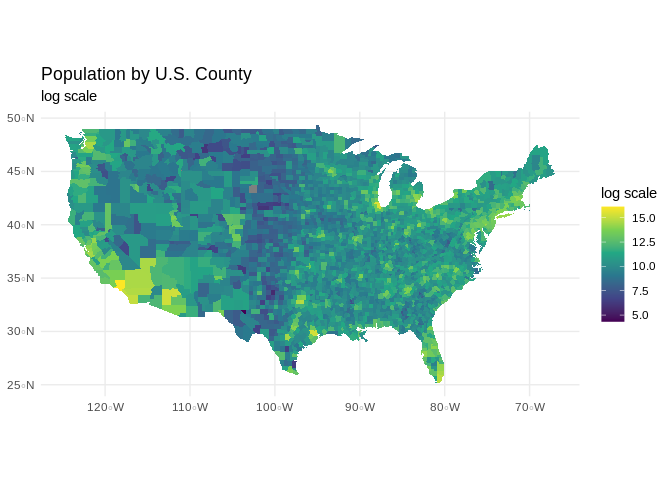
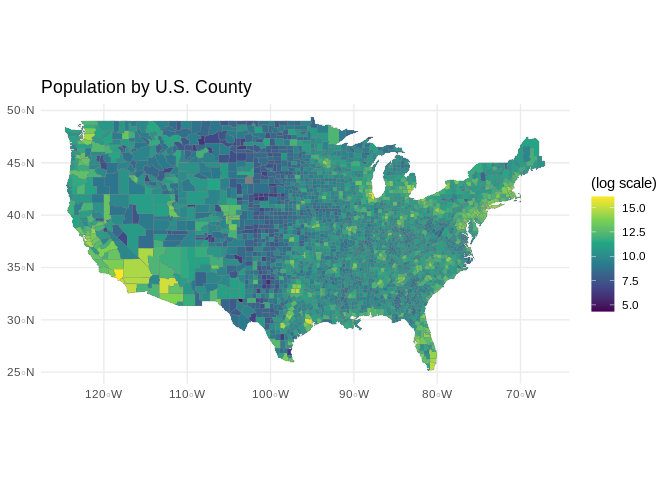
updated README

diff --git a/README.md b/README.md
@@ -1,48 +1,53 @@
 Niche: An Interface for Exploring Relocation Options
 ================
 
-My parents often bring up in conversation their desire to move away from
-their California home and find a new place to settle down for
-retirement. Typically they will cite factors that they perceive as
-having altered the essence of this suburban and rural county such as
+Lately, my parents will often bring up in conversation their desire to
+move away from their California home and find a new place to settle down
+for retirement. Typically they will cite factors that they perceive as
+having altered the essence of their suburban and rural county such as
 higher costs of living, population growth, worsening traffic, and
 growing rates of violent crime that they say have made them feel
-increasing estranged from their community in recent years. Despite these
-concerns, both admit that there is much they would miss about their home
+estranged from their community in recent years. Despite these concerns,
+both admit that there is much they would miss about their current home
 such as the mild climate of the California coast, the abundant natural
-beauty of the region, and an impressive matrix of open space and public
-lands, all of which allow them to enjoy outdoor hobbies throughout the
-year.
+beauty of the region, and an vast matrix of open space and public lands
+that allow them to enjoy outdoor hobbies throughout the year.
 
 The idea for Niche came from wanting to help my parents explore their
-relocation options. The name is taken from a foundational concept in
-biology. While many definitions of a niche exist, from conceptural
-models to mathematical frameworks, virtually all definitions agree that
-one’s niche can be thought of as the set of environmental conditions
-necessary for an organism to thrive. While some organisms can only
-tolerate a narrow range of conditions (think temperature, light,
-salinity, etc.) others will do just fine when exposed to large changes
-in these same variables. Members of the same species will also occupy
-different niches due to the individual variation that exists in their
-anatomy, physiology, and behavior. As a result, no two individuals
-experience a shared environment in exactly the same way.
+relocation options by taking into considertation what matters most to
+them about the place they live now. The name of this app is taken from a
+foundational concept in biology. While many definitions of a niche
+exist, from conceptural models to mathematical frameworks, virtually all
+definitions agree that one’s niche can be thought of as the set of
+environmental conditions necessary for an organism to thrive. While some
+species can only tolerate a narrow range of conditions (think
+temperature, light, salinity, etc.) others will do just fine when
+exposed to large changes in these same variables. But even members of
+the same species will occupy a different niche due to the individual
+variation that exists in their anatomy, physiology, and behavior. The
+point is that no two individuals experience a shared environment in
+exactly the same way. We all have different tolerances.
 
 Borrowing from this concept, it is easy to imagine how our own ability
-to thrive will be influenced by our surroundings, and that the best
-tools to guide our understanding of the conditions best suit us as
-individuals come from reflecting on our own experiences. However it is
-also possible that we can not put a finger on what exactly makes a place
-feel like home. That is where Niche comes in, using a data-driven
-approach to capture the gestalt properties of a location, and to then
-search them out elsewhere. You know what you want to find in the places
-you will live, let Niche help you explore those locations.
+to thrive will be influenced by our surroundings. Niche works by asking
+users to identify a location where they would like to live and answer a
+few questions about what is important to them about that place. The
+program then identifies other areas in the country with similar features
+before making recommendations on relocation options. Niche considers
+both the more salient characteristics of a location such as the climate
+and land uses as well as factors that may be less conspicuous such as
+economic, demographic, and political indicators. Niche relies on the
+belief that the best tools to guide our understanding of the conditions
+best suit us as individuals will come from reflecting on our
+experiences. You know what you want to find in the places you want to
+live and Niche can help you find them.
 
 ![](niche.png) [**Try the Niche app right now. Click
 here\!**](https://ericvc.shinyapps.io/Niche)
 
 Below, I detail the data and methods that went into creating Niche.
 Thank you for reading. If you have any feedback, questions, or
-suggestion, get in touch with me at ericvc2`at`gmail.com.
+suggestions get in touch with me at ericvc2\[at\]gmail.
 
 ## 0\. Get County-level Boundary Data, the unit of this analysis
 
@@ -54,9 +59,9 @@ type object used by the `sf` (“simple features”) geospatial package.
 Therefore, I had to first download the county level data using
 `ggplot2`, convert the coordinate data into a ’Spatial\*’ object (used
 by the `sp` package), save this data to local storage as a shapefile,
-and subsequerntly read-in the file back into R using `sf::st_read()`. I
-decided to save the data as a shapefile because the conversion to
-‘SpatialPolygonsDataFrame’ was non-trivial ([this code
+and finally read the file back into R using `sf::st_read()`. I decided
+to save the data as a shapefile as an intermediate data prodcut because
+the conversion to ‘SpatialPolygonsDataFrame’ was non-trivial ([this code
 helped](https://stackoverflow.com/questions/21759134/convert-spatialpointsdataframe-to-spatialpolygons-in-r%3E))
 and took a bit of time to finish.
 
@@ -102,8 +107,8 @@ counties$state = locs[,2]
 ```
 
 Once completed, I had a map of the United States composed of polygons
-for each county. Now, any new columns added to `d` will be automatically
-georeferenced.
+for each county. Now, any new columns added to `d` (an ‘sf’ object) will
+be automatically georeferenced.
 
 ``` r
 d <- st_read("raw_data/shape/counties.shp", quiet = TRUE)
@@ -143,10 +148,10 @@ d %>%
 To characterize the climatic conditions for each county, I turned to
 WorldClim’s global climate database, specifically their ‘bioclim’
 collection of annual climate summary measurements. As with the
-county-level polygons, there an exists an API for downloading these
-files directly from R, this time using the `raster::getData()` function.
-Below is the code for downloading ‘bioclim’ data at a resolution of 5
-arc minutes, or approximately 8 x 8 km^2 per grid cell at latitudes
+county-level polygons, there exists an API for downloading these files
+directly from R, this time using the `raster::getData()` function. Below
+is the code for downloading ‘bioclim’ data at a resolution of 5 arc
+minutes, or approximately 64 km\(^2\) per grid cell at latitudes
 considered here.
 
 ``` r
@@ -200,7 +205,7 @@ plot(bioclim, col=viridis::viridis(15))
 dataset includes 19 variables but deal mostly with characterizing
 temperature and precipitation patterns. As a result, we might expect
 that many of these variables will be highly correlated with one another,
-and would want to consider using feature extraction to distill this
+and would want to consider using feature extraction to distill the
 variation to fewer dimensions.
 
 Indeed what I have chosen to do here is perform principal components
@@ -271,8 +276,8 @@ plot(pcClim, col=viridis::viridis(15))
 
 <img src="README_files/figure-gfm/bioclim_pca-1.png" style="display: block; margin: auto;" />
 
-Finally, we can extract the feature values from the county-level
-polygons.
+Finally, we can extract the principal component values from the
+county-level polygons.
 
 ``` r
 bioclim_ex = raster::extract(
@@ -286,11 +291,10 @@ d = cbind(d, bioclim_ex)
 
 ## 2\. Demographic, Political, and Economic Indicators
 
-In the Niche interface users are asked to separately rate the importance
-of demographic, political, and economic factors before making
-recommendations, but the data for these categories actually come from
-combining two different county level data sources. The **MIT Election
-Lab** provides the ‘election-context-2018’ dataset via their [GitHub
+The data for demographic, political, and economic variables come from a
+combination of two different county level data sources. The **MIT
+Election Lab** provides the ‘election-context-2018’ dataset via their
+[GitHub
 page](https://github.com/MEDSL/2018-elections-unoffical/blob/master/election-context-2018.csv),
 which includes information on the outcomes of state and national
 elections in addition to an impressive variety of demographic variables
@@ -360,9 +364,9 @@ d <- d %>%
 ``` r
 ggplot(d) +
   theme_minimal() +
-  ggtitle("Population by U.S. County", subtitle = "log scale") +
-  geom_sf(mapping=aes(fill=total_population), size=0.01) +
-  scale_fill_viridis_c("log scale")
+  ggtitle("Population by U.S. County") +
+  geom_sf(mapping=aes(fill=total_population), size=0.1, color="gray50") +
+  scale_fill_viridis_c("(log scale)")
 ```
 
 <img src="README_files/figure-gfm/pde-1.png" style="display: block; margin: auto;" />
@@ -374,11 +378,14 @@ having plenty of public lands nearby for a day hike, camping trip, or
 mountain bike ride.
 
 The **International Union for the Conservation of Nature (IUCN)** makes
-avaiable to the public a wonderful geospatial dataset covering protected
-areas around the world. It is quite impressive, but also computationally
-intensive to manipulate. Therefore, my first steps in processing this
-data were removing regions of the world not considered here as well as
-those protected land categories unrelated to
+avaiable to the public a wonderful geospatial dataset covering over
+33,000 protected areas in the United States alone. Covering everything
+from small local nature preserves and city parks to iconic National
+Parks, the data set is as extensive as it is impressive, but this level
+of detail also makes it computationally burdensome to work with.
+Therefore, my first steps in processing this data were removing regions
+of the world not considered here as well as those protected land
+categories unrelated to
 recreation.
 
 ``` r
@@ -389,13 +396,12 @@ wdpa = readOGR("raw_data/WDPA/WDPA_Apr2020_USA-shapefile-polygons.shp")
 #PAs in contiguous United States
 rmPA = c("US-AK","US-N/A;US-AK","US-N/A","US-HI","US-N/A;US-AK","US-N/A;US-CA","US-N/A;US-FL","US-N/A;US-FL;US-GA;US-SC","US-N/A;US-HI")
 wdpa_48 = wdpa[!wdpa$SUB_LOC %in% rmPA,]
-#Only terrestrial parks?
+#Only terrestrial parks
 wdpa_48_terr = wdpa_48[wdpa_48$MARINE==0,]
-writeSpatialShape(wdpa_48_terr, fn = "raw_data/WDPA/Derived/public_lands.shp", factor2char = TRUE)
 #Subset by PA type
-keepPAType = c("State Park","National Park","National Monument","State Recreation Area","Recreation Area","Historic State Park","Regional Park")
-wdpa_48_terr_pa = protectedAreas[protectedAreas$DESIG %in% keepPAType,]
-writeSpatialShape(protectedAreas_pa, fn = "raw_data/WDPA/Derived/public_lands_recreation.shp", factor2char = TRUE)
+paLevels = c("Ib","II","III","V","VI")
+wdpa_48_terr_pa = wdpa_48_terr[wdpa_48_terr$IUCN_CAT %in% paLevels,]
+writeSpatialShape(wdpa_48_terr_pa, fn = "raw_data/WDPA/Derived/public_lands_recreation.shp", factor2char = TRUE)
 ```
 
 After paring the data down, the intermediate product is saved to local
@@ -421,7 +427,7 @@ for(v in 1:length(vars)){
 
 ggplot(d) +
   theme_minimal() +
-  ggtitle("Proportion of Protected Land by U.S. County","logit scale") +
+  ggtitle("Proportion of Protected Land by U.S. County") +
   geom_sf(mapping=aes(fill=boot::logit(TOT_PA_AREA+0.001)), size=0.1) +
   scale_fill_viridis_c("logit(%)")
 ```
@@ -440,13 +446,13 @@ one of 16\* land cover categories including bare ground, medium
 intensity development, deciduous forests, cultivated land, and
 [more](https://www.mrlc.gov/data/legends/national-land-cover-database-2016-nlcd2016-legend).
 The NLCD data is very much integral to the design of Niche because it
-provides a powerful way of quantifying some of the most conspcious
+provides a powerful way of quantifying some of the most salient
 characterists of a location: what lies on top of the land. Maybe your
 ideal place to live has evergreen forests, small towns, and large
 expanses of grazing pasture. Perhaps it consists mainly of high
 intensity development, such as in a metro area, and with little or
 absent forest and agriculture land uses. The NLCD2016 data can capture
-represent these characteristics using the category combinations.
+represent these characteristics using combinations of these categories.
 
 As with other spatial data extractions, the goal was to iterate over
 counties in the data set and calculate the proportional representation
@@ -601,7 +607,37 @@ par(mfrow=c(2,2))
 for(v in 1:length(vars)){
   d[vars[v]] <- scores[[vars[v]]]
 }
+
+library(ggplotify)
+library(gridExtra)
 ```
+
+    ## 
+    ## Attaching package: 'gridExtra'
+
+    ## The following object is masked from 'package:dplyr':
+    ## 
+    ##     combine
+
+``` r
+p1 <- ggplot(d) +
+  theme_minimal() +
+  ggtitle("Land Cover PC1") +
+  geom_sf(mapping=aes(fill=LandCover_PC1), size=0.1) +
+  scale_fill_viridis_c("")
+
+p2 <- ggplot(d) +
+  theme_minimal() +
+  ggtitle("Land Cover PC2") +
+  geom_sf(mapping=aes(fill=LandCover_PC2), size=0.1) +
+  scale_fill_viridis_c("")
+
+plt <- gridExtra::arrangeGrob(grobs = lapply(list(p1,p2), as.grob), ncol=1)
+grid::grid.newpage()
+grid::grid.draw(plt)
+```
+
+<img src="README_files/figure-gfm/ncld2-1.png" style="display: block; margin: auto;" />
 
 ## 5\. Making recommendations: cosine proximity
 
@@ -678,8 +714,12 @@ in \(n-\)dimensional space. The cosine of two vectors that share many
 properties will have an angle close to 0 and therefore a cosine value
 near 1. Conversely, disimilar counties will have lower scores because
 the angle of their edge will be larger. The formula for calculating
-cosine similarity is as follows:
-\[cos(\theta_{i,j}) = \frac{\sum^N_{n=1}{m_{i,n}\times m_{j,n}}}{\sum^N_{n=1}{\sqrt{m^2_{i,n}}\sqrt{m^2_{j,n}}}}, \space\space i \neq\ j\]
+cosine similarity is as
+follows:
+
+\#\[cos(\theta_{i,j}) = \frac{\sum^N_{n=1}{m_{i,n}\times m_{j,n}}}{\sum^N_{n=1}{\sqrt{m^2_{i,n}}\sqrt{m^2_{j,n}}}}, \space\space i \neq\ j\]
+
+<img src="https://latex.codecogs.com/svg.latex?\Large&space;cos(\theta_{i,j})=\frac{\sum^N_{n=1}{m_{i,n}\times m_{j,n}}}{\sum^N_{n=1}{\sqrt{m^2_{i,n}}\sqrt{m^2_{j,n}}}}" text="cos(\theta_{i,j})=\frac{\sum^N_{n=1}{m_{i,n}\times m_{j,n}}}{\sum^N_{n=1}{\sqrt{m^2_{i,n}}\sqrt{m^2_{j,n}}}}"/>
 
 The code for this calculation is given below along with an example for
 Cook County, Illinois, which includes the city of Chicago.
@@ -742,17 +782,27 @@ d[order(d$cosine_sim,decreasing = TRUE),c("name","cosine_sim")]
 
 The Top 10 recommendations for Cook County residents are presented here.
 Most similar to Cook County are Suffolk County, MA, a suburb of New York
-City, and Marion, ID, which contains the city of Indianapolis.
+City, and Marion County, IN, which contains the city of Indianapolis.
 
 ## Conclusion
 
-This was a brief sketch of the data and methods that go into **Niche: An
-Interface for Exploring Relocation Options**. If you would like to give
-a try, visit the most up-to-date version on my Shinyapps page
+This was a brief overview of the data and methods that went into
+**Niche: An Interface for Exploring Relocation Options**. If you would
+like to give a try, visit the most up-to-date version on my Shinyapps
+page
 [(https://ericvc.shinyapps.io/Niche/)](https://ericvc.shinyapps.io/Niche/)
-or clone the GitHub directory and run the app from your computer. Note,
-the `app.R` file contains code for initializing a Python virtual
-environment, which Niche requires in order to function. This code causes
-issues when executed on my local system. Commenting out those lines
-fixes the issue, but are otherwise required when running the hosted
-version of the program.
+or clone the GitHub directory and run the app from your computer with
+RStudio. Note, the `app.R` file contains code for initializing a Python
+virtual environment (using the `reticulate` package), which Niche
+requires in order to function completely. This code causes issues when
+executed on my local system. Commenting out the code fixes the issue,
+but are otherwise required when running the hosted version of the
+program. Some features will not be available without the ability to
+execute Python code.
+
+The purpose of Niche is to help guide users’ relocation research by
+translating their personal preferences and past experiences into a
+data-centric model in order to make recommendations. Some future plans
+for this tool include adding historical data that would allow users to
+find locations in the present that are similar to a location *and time*
+from the recent past (e.g., \(<=\) 20 years).
